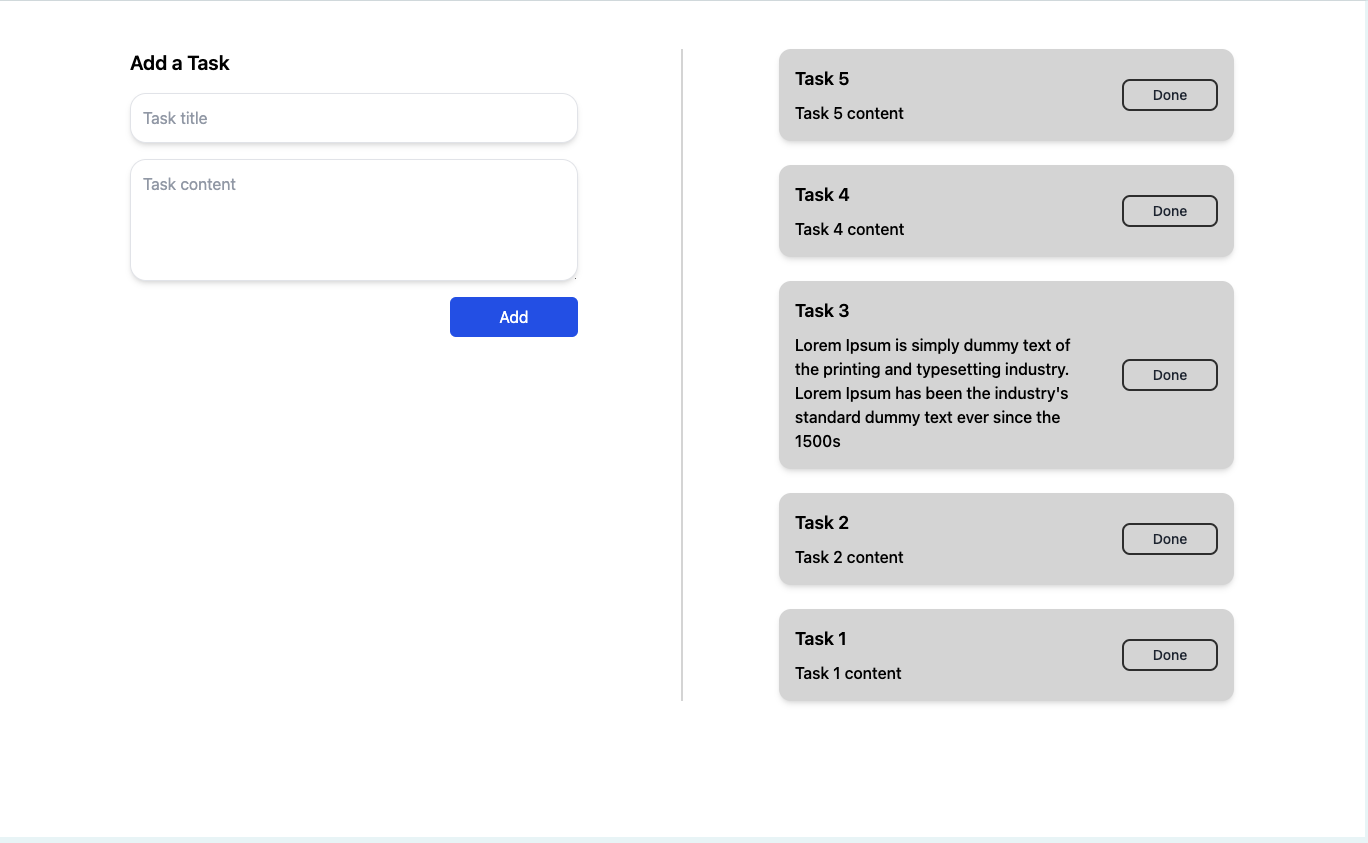
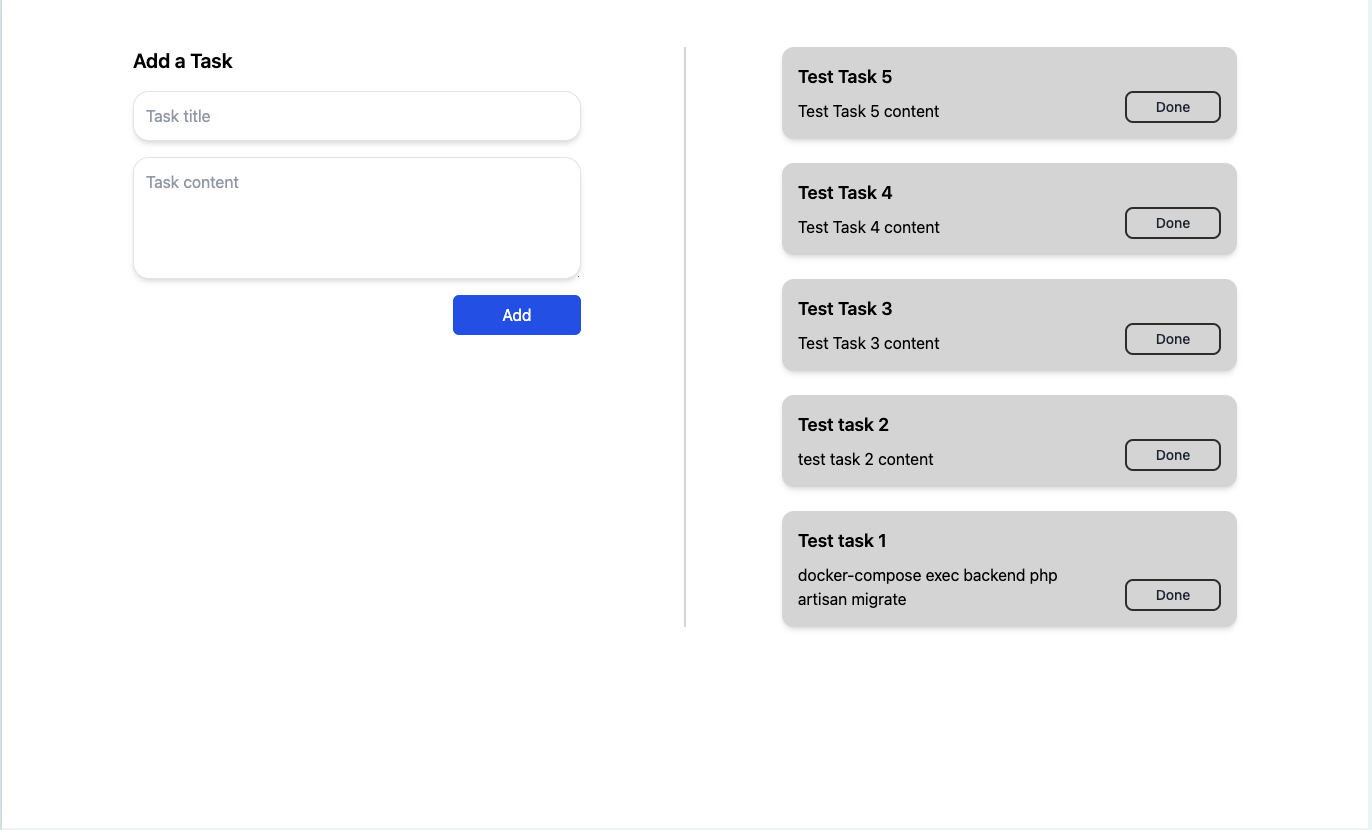
fixed done button layout issue

diff --git a/frontend/src/components/TaskCard.jsx b/frontend/src/components/TaskCard.jsx
@@ -2,23 +2,25 @@ import PropTypes from 'prop-types';
 
 export default function TaskCard({ task, onCompleted, isUpdating }) {
     return (
-        <div className="bg-[#D9D9D9] shadow-md rounded-xl p-4 flex justify-between items-center w-full md:max-w-xl mb-4">
+        <div className="bg-[#D9D9D9] shadow-md rounded-xl p-4 flex flex-col md:flex-row justify-between w-full md:max-w-xl mb-4">
             <div className="flex-1 pr-4">
                 <h3 className="text-lg font-semibold">{task.title}</h3>
-                <p className="text-base mt-2 font-medium">{task.content}</p>
+                <p className="text-base mt-2 font-normal">{task.content}</p>
             </div>
 
-            <button
-                onClick={() => onCompleted(task.id)}
-                disabled={isUpdating}
-                className={`ml-4 w-24 border-2 border-[#333333] py-1 rounded-lg text-sm font-medium transition ${
-                    isUpdating
-                        ? 'bg-gray-300 text-gray-400 cursor-not-allowed'
-                        : 'text-gray-800 hover:bg-gray-300'
-                }`}
-            >
-                {isUpdating ? 'Updating...' : 'Done'}
-            </button>
+            <div className="mt-4 md:mt-0 md:flex md:items-end">
+                <button
+                    onClick={() => onCompleted(task.id)}
+                    disabled={isUpdating}
+                    className={`w-24 border-2 border-[#333333] py-1 rounded-lg text-sm font-medium transition ${
+                        isUpdating
+                            ? 'bg-gray-300 text-gray-400 cursor-not-allowed'
+                            : 'text-gray-800 hover:bg-gray-300'
+                    }`}
+                >
+                    {isUpdating ? 'Updating...' : 'Done'}
+                </button>
+            </div>
         </div>
     );
 }
